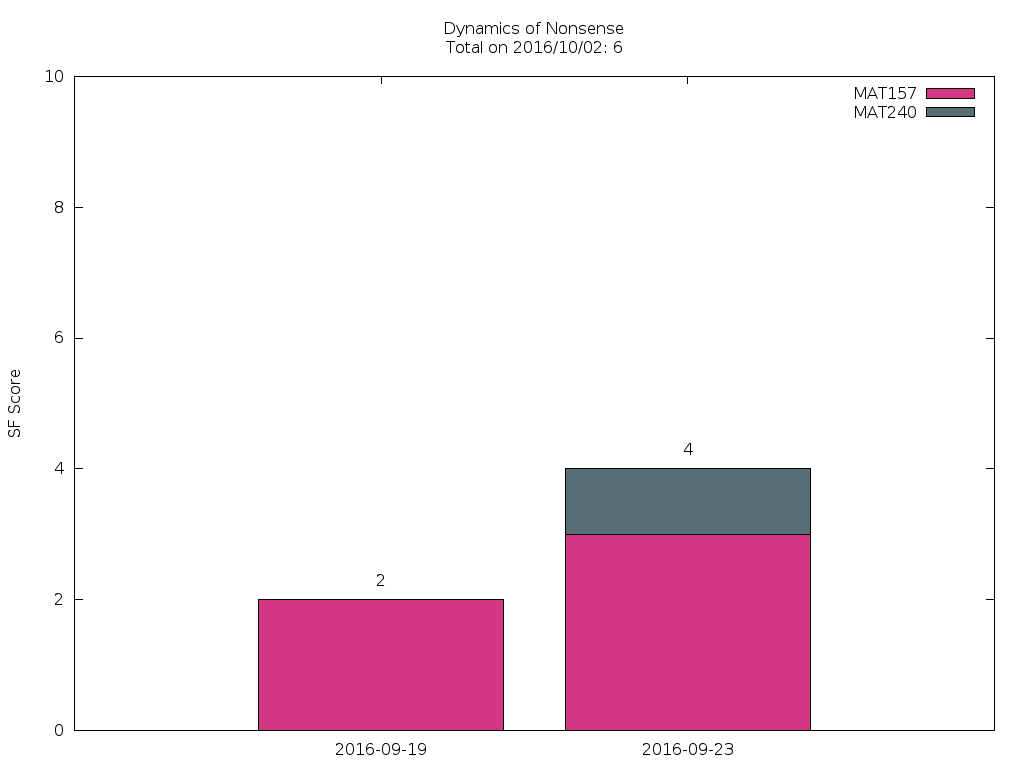
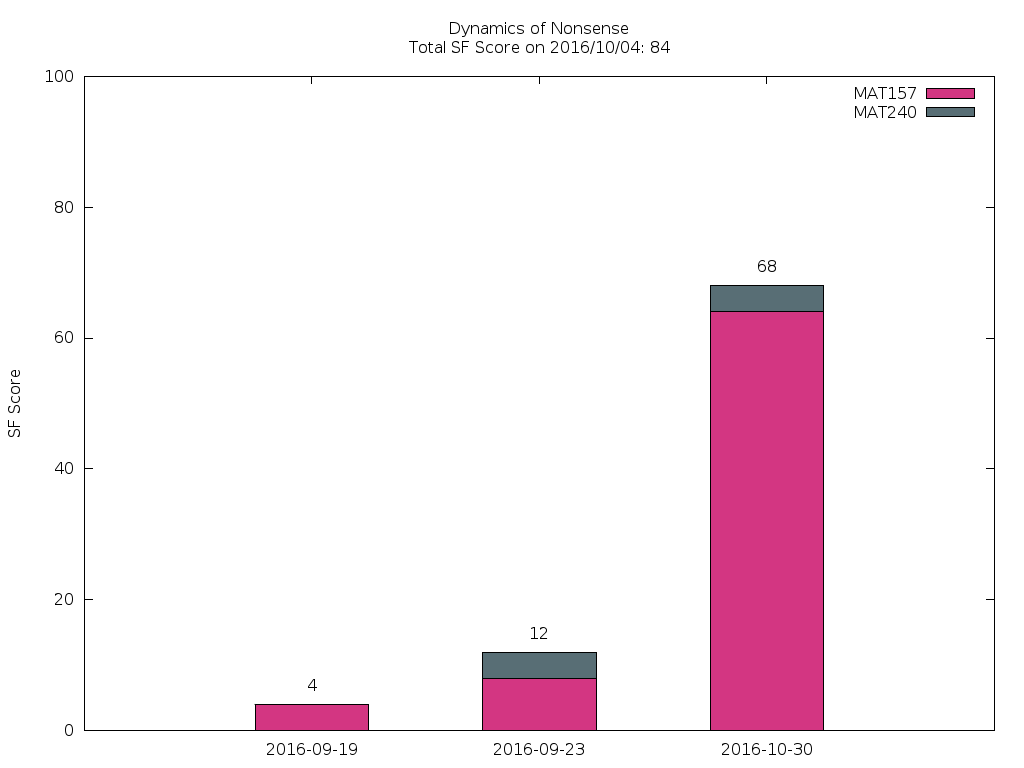
Yet another weblog update.
Source commit: 780221fc17649969a19aa66d1347124fc40b4ab4
Nikola version: 7.8.0

diff --git a/arbeit/index.html b/arbeit/index.html
@@ -13,7 +13,24 @@
 <meta property="og:site_name" content="sdll">
 <meta property="og:title" content="Arbeit">
 <meta property="og:url" content="https://sdll.github.io/arbeit/">
-<meta property="og:description" content="Motivation
+<meta property="og:description" content="Table of Contents
+
+
+Status
+Motivation
+Mathematics
+
+Analysis
+
+Midterm Exam
+20160923MAT157
+20160919MAT157
+
+
+Linear Algebra
+
+20160930
+20160923MAT240
 
 
 
@@ -21,17 +38,34 @@
 
 
 
-As a joke I said, &quot;What is the purpose of Life?&quot;
 
 
 
-&quot;Proof and conjecture, and keep the SF's score low.&quot;
 
 
-Now, the game with the SF is defined as follows:
+
+Status
 
 
-If you do something bad ">
+
+
+
+
+
+
+
+
+
+
+Motivation
+
+
+
+
+
+
+
+As a">
 <meta property="og:type" content="article">
 <meta property="article:published_time" content="2016-09-28T00:29:15Z">
 </head>
@@ -39,7 +73,7 @@ If you do something bad ">
 <a href="#content" class="sr-only sr-only-focusable">Skip to main content</a>
     <div id="container">
          
-    <header id="header"><h1 id="brand"><a href="https://sdll.github.io/" title="sdll" rel="home">
+    <header id="header"><h1 id="brand"><a href="https://sdll.github.io/" title="sdll" rel="home" style="color: #259359">
         <img src="../assets/site/logo.png" alt="@" id="logo">
 
         sdll
@@ -73,10 +107,51 @@ If you do something bad ">
         
 
     </header><div class="e-content entry-content" itemprop="articleBody text">
-    <script src="../assets/scripts/jquery-1.12.2.min.js"></script><link rel="stylesheet" href="../assets/scripts/katex/katex.min.css">
+    <div id="table-of-contents">
+<h2>Table of Contents</h2>
+<div id="text-table-of-contents">
+<ul>
+<li><a href="#sec-1">Status</a></li>
+<li><a href="#sec-2">Motivation</a></li>
+<li>
+<a href="#sec-3">Mathematics</a>
+<ul>
+<li>
+<a href="#sec-3-1">Analysis</a>
+<ul>
+<li><a href="#sec-3-1-1">Midterm Exam</a></li>
+<li><a href="#sec-3-1-2">20160923MAT157</a></li>
+<li><a href="#sec-3-1-3">20160919MAT157</a></li>
+</ul>
+</li>
+<li>
+<a href="#sec-3-2">Linear Algebra</a>
+<ul>
+<li><a href="#sec-3-2-1">20160930</a></li>
+<li><a href="#sec-3-2-2">20160923MAT240</a></li>
+</ul>
+</li>
+</ul>
+</li>
+</ul>
+</div>
+</div>
+<script src="../assets/scripts/jquery-1.12.2.min.js"></script><link rel="stylesheet" href="../assets/scripts/katex/katex.min.css">
 <script src="../assets/scripts/katex/katex.min.js"></script><script src="../assets/scripts/katex/contrib/auto-render.min.js"></script><div id="outline-container-sec-1" class="outline-2">
-<h2 id="sec-1">Motivation</h2>
+<h2 id="sec-1">Status</h2>
 <div class="outline-text-2" id="text-1">
+
+<div class="figure">
+<p><img src="../../assets/org/sfscore.png" alt="sfscore.png" width="100%"></p>
+</div>
+</div>
+</div>
+
+
+
+<div id="outline-container-sec-2" class="outline-2">
+<h2 id="sec-2">Motivation</h2>
+<div class="outline-text-2" id="text-2">
 <blockquote>
 <p>
 
@@ -111,26 +186,57 @@ And the aim is to keep the SF's score low.
 
 
 
-<div id="outline-container-sec-2" class="outline-2">
-<h2 id="sec-2">Status</h2>
-<div class="outline-text-2" id="text-2">
 
-<div class="figure">
-<p><img src="../../assets/org/sfscore.png" alt="sfscore.png" width="100%"></p>
-</div>
-</div>
-</div>
 <div id="outline-container-sec-3" class="outline-2">
 <h2 id="sec-3">Mathematics</h2>
 <div class="outline-text-2" id="text-3">
+<p>
+Nonsense (%):
+</p>
+
+<ul class="org-ul">
+<li>Problem Sets (PS):
+
+<ul class="org-ul">
+<li>$$[00:10) \to 02 $$ SF points
+</li>
+<li>$$[10:20) \to 04 $$ SF points
+</li>
+<li>$$[30:40) \to 08 $$ SF points
+</li>
+<li>$$[40:50) \to 16 $$ SF points
+</li>
+<li>$$\ &gt;=50\ \to 32 $$ SF points
+</li>
+</ul>
+</li>
+</ul>
+<ul class="org-ul">
+<li>Exams: Double the corresponding score for PS
+</li>
+</ul>
 </div>
+
 <div id="outline-container-sec-3-1" class="outline-3">
 <h3 id="sec-3-1">Analysis</h3>
 <div class="outline-text-3" id="text-3-1">
-<ul class="org-ul">
-<li>
-<a href="https://github.com/sdll/NOTES/blob/master/ARBEIT/MAT/MAT157/20160923MAT157.pdf">20160923MAT157</a>
+</div>
+<div id="outline-container-sec-3-1-1" class="outline-4">
+<h4 id="sec-3-1-1">Midterm Exam</h4>
+<div class="outline-text-4" id="text-3-1-1">
+<p>
+Nonsense: 50.0%
+</p>
 
+<p>
+Very bad work.
+</p>
+</div>
+</div>
+
+<div id="outline-container-sec-3-1-2" class="outline-4">
+<h4 id="sec-3-1-2"><a href="https://github.com/sdll/NOTES/blob/master/ARBEIT/MAT/MAT157/20160923MAT157.pdf">20160923MAT157</a></h4>
+<div class="outline-text-4" id="text-3-1-2">
 <p>
 Nonsense: 30.0%
 </p>
@@ -192,11 +298,12 @@ that $$\alpha$$ is rational.
 </p>
 </li>
 </ol>
-</li>
+</div>
+</div>
 
-<li>
-<a href="https://github.com/sdll/NOTES/blob/master/ARBEIT/MAT/MAT157/20160919MAT157.pdf">20160919MAT157</a>
-
+<div id="outline-container-sec-3-1-3" class="outline-4">
+<h4 id="sec-3-1-3"><a href="https://github.com/sdll/NOTES/blob/master/ARBEIT/MAT/MAT157/20160919MAT157.pdf">20160919MAT157</a></h4>
+<div class="outline-text-4" id="text-3-1-3">
 <p>
 Nonsense: 10.3%
 </p>
@@ -212,8 +319,7 @@ want to show, and review your results
 <li>6.1: use induction rather than a soft explanation as a proof
 </li>
 </ul>
-</li>
-</ul>
+</div>
 </div>
 </div>
 
@@ -221,9 +327,93 @@ want to show, and review your results
 <div id="outline-container-sec-3-2" class="outline-3">
 <h3 id="sec-3-2">Linear Algebra</h3>
 <div class="outline-text-3" id="text-3-2">
-<ul class="org-ul">
-<li>20160923MAT240
+</div>
+<div id="outline-container-sec-3-2-1" class="outline-4">
+<h4 id="sec-3-2-1">20160930</h4>
+<div class="outline-text-4" id="text-3-2-1">
+<p>
+Nonsense: 12.0%
+</p>
 
+<p>
+Bad work. Unattentiveness and unfounded intuitions lead to
+misunderstandings.
+</p>
+
+<ul class="org-ul">
+<li>
+<a href="https://github.com/sdll/NOTES/blob/master/ARBEIT/ARBEIT20160930MAT240_1.pdf">20160930 MAT240: 1</a>
+
+<p>
+Be careful with what you copy and paste.
+</p>
+</li>
+
+<li>
+<a href="https://github.com/sdll/NOTES/blob/master/ARBEIT/ARBEIT20160930MAT240_2.pdf">20160930 MAT240: 2</a>
+
+<p>
+Simplify the notation.
+</p>
+</li>
+
+<li>
+<a href="https://github.com/sdll/NOTES/blob/master/ARBEIT/ARBEIT20160930MAT240_3.pdf">20160930 MAT240: 3</a>
+</li>
+<li>
+<a href="https://github.com/sdll/NOTES/blob/master/ARBEIT/ARBEIT20160930MAT240_4.pdf">20160930 MAT240: 4</a>
+
+<ul class="org-ul">
+<li>Theorem 0.1:
+
+<p>
+Think and possibly handwrite before you type to avoid overconfidence
+and silly mistakes.
+</p>
+</li>
+
+<li>4.6:
+
+<p>
+Another example of messing up the operations used. It is
+not true that $$a\cdot(b\tilde{\cdot}x)=(ab)\tilde{\cdot}x$$.
+</p>
+</li>
+
+<li>4.7:
+
+<p>
+Missing the point of the exercise and the meaning of the
+property yet again.
+</p>
+</li>
+
+<li>5.a $$\Rightarrow$$: Poor argument. What if $$x=0$$?
+
+<p>
+Order properties tend not to have anything to do with
+linear algebra.
+</p>
+
+<p>
+Suppose that $$W$$ is a subset $$S$$ to prove by
+contraposition that $$W \cup S$$ is not a subspace of $$V$$.
+</p>
+</li>
+</ul>
+</li>
+</ul>
+<ul class="org-ul">
+<li>
+<a href="https://github.com/sdll/NOTES/blob/master/ARBEIT/ARBEIT20160930MAT240_5.pdf">20160930 MAT240: 5</a>
+</li>
+</ul>
+</div>
+</div>
+
+<div id="outline-container-sec-3-2-2" class="outline-4">
+<h4 id="sec-3-2-2">20160923MAT240</h4>
+<div class="outline-text-4" id="text-3-2-2">
 <p>
 Nonsense: 10.0%
 </p>
@@ -250,8 +440,6 @@ be extremely careful with arithmetic and explicit in your reasoning
 <a href="https://github.com/sdll/NOTES/blob/master/ARBEIT/MAT/MAT240/20160923MAT240_5.pdf">20160923MAT240 V</a>
 </li>
 </ul>
-</li>
-</ul>
 <script>
       renderMathInElement(
           document.body,
@@ -263,6 +451,7 @@ be extremely careful with arithmetic and explicit in your reasoning
           }
       );
 </script>
+</div>
 </div>
 </div>
 </div>
